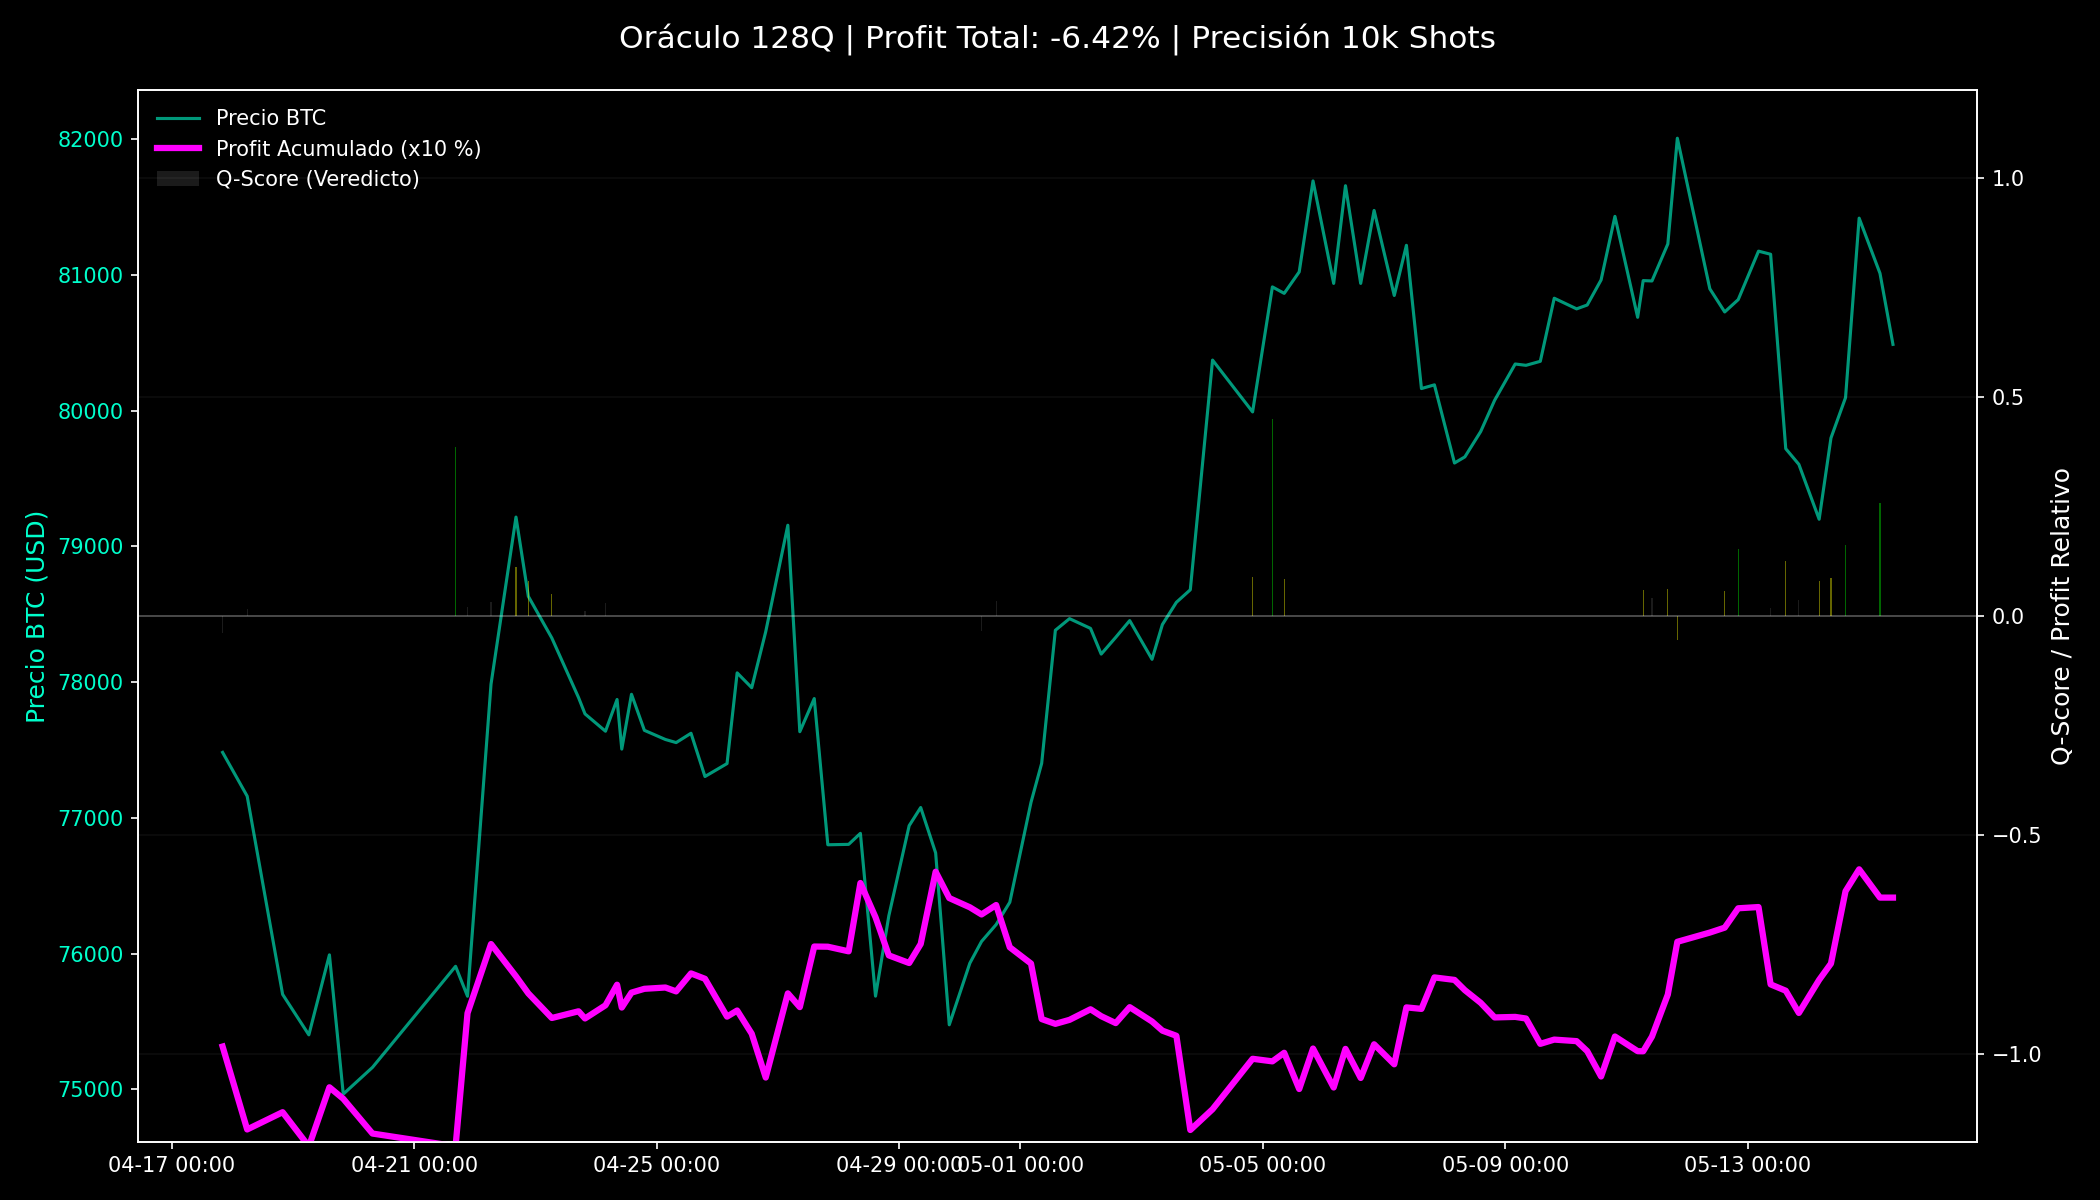
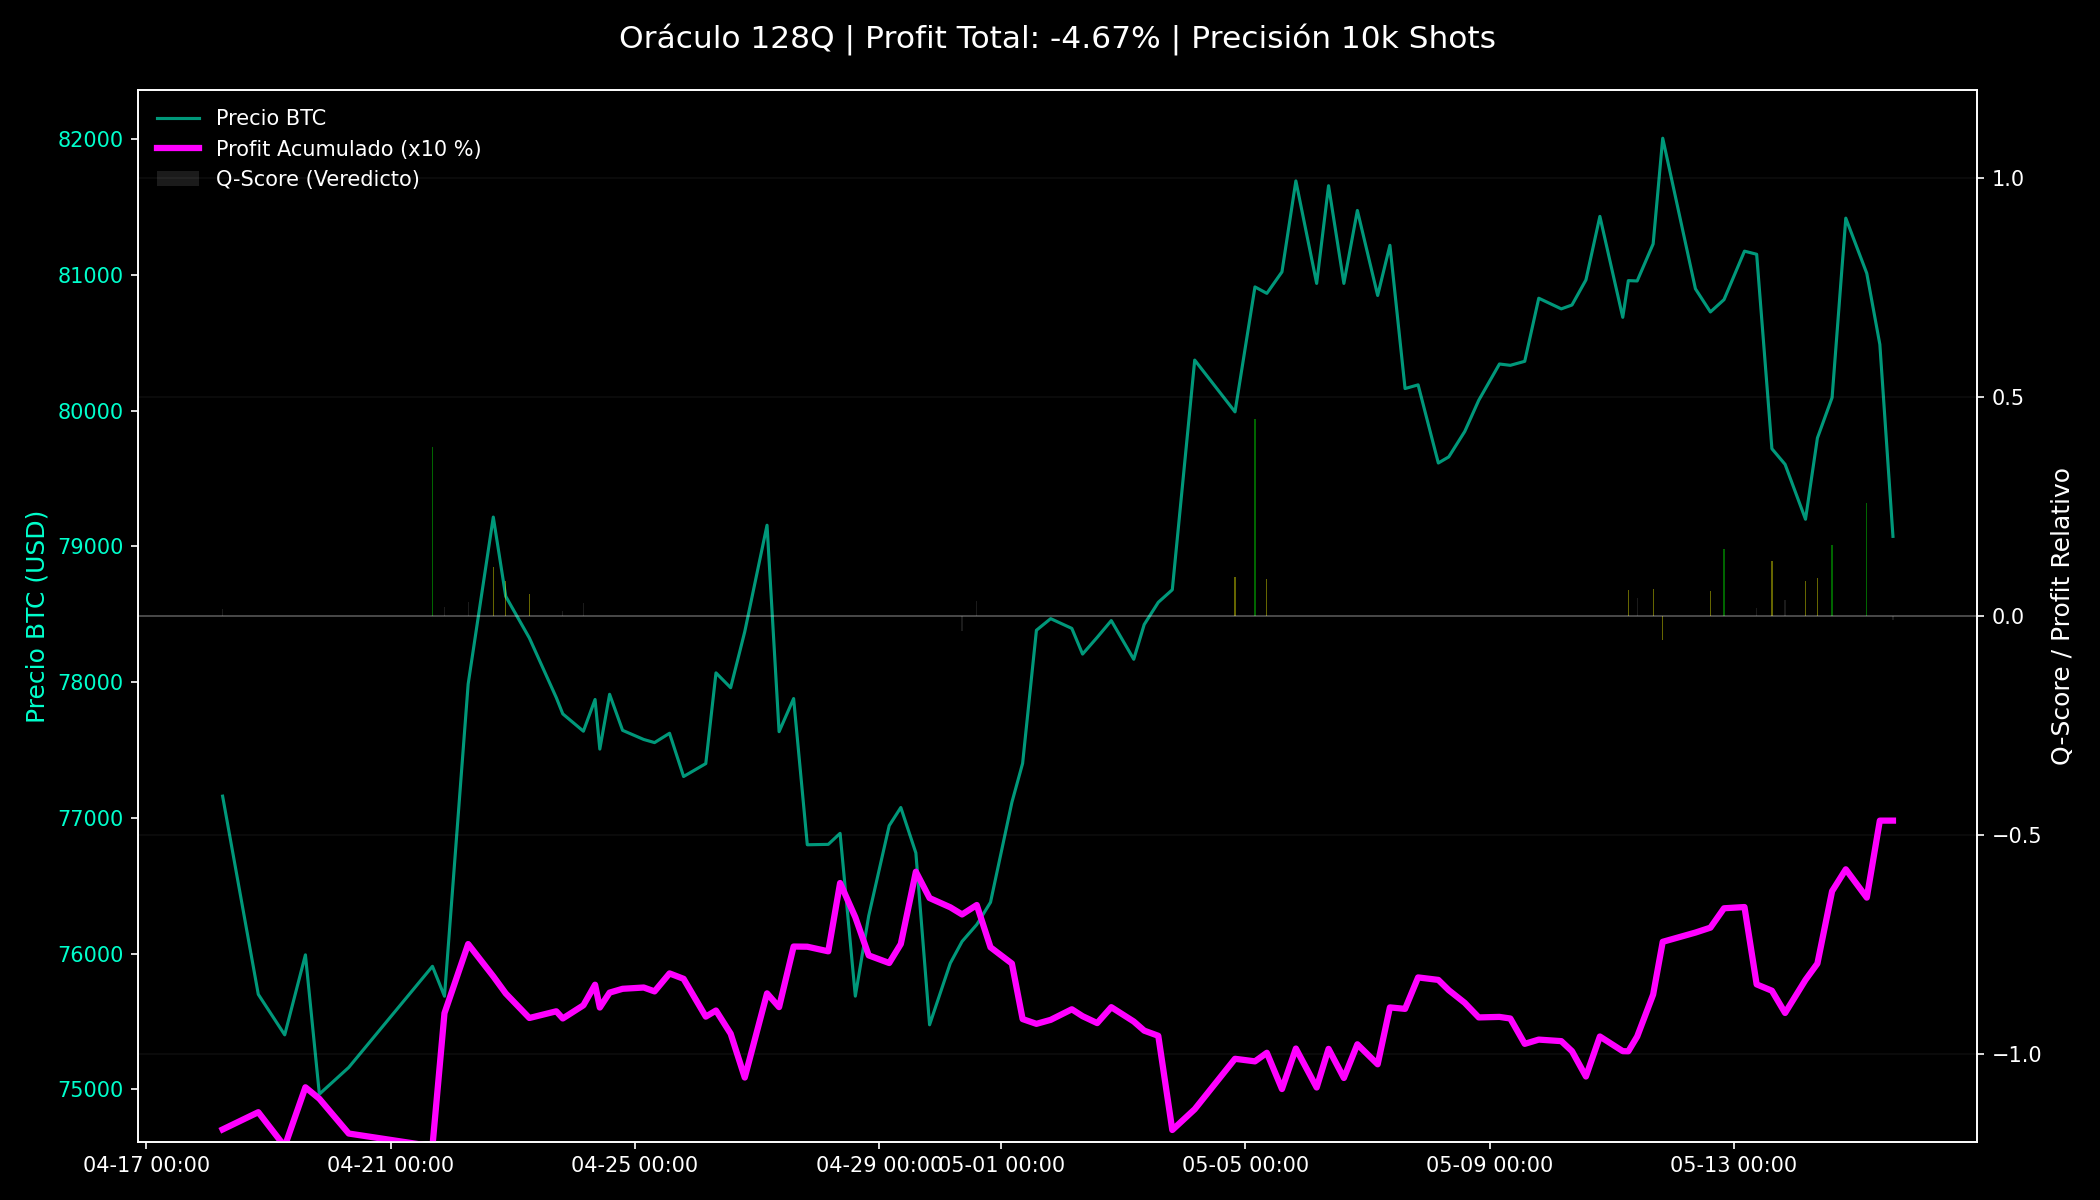
Deploying to gh-pages from @ alconero-hub/oraculo_cuantico@3a28b5a267f0caf5b3e9cca43aea15b72a9e470c 🚀

diff --git a/README.md b/README.md
@@ -1,9 +1,9 @@
 # 🌌 Oráculo Cuántico 128Q
-![Señal](https://img.shields.io/badge/ORÁCULO-💤%20LATERAL-lightgrey?style=for-the-badge)
-* **Precio BTC:** `$80,488.18` | **Q-Score:** `+0.0000`
-* **Hardware:** `Standby (<0.15%)` | **Shots:** `5000`
-* **Volatilidad:** `0.1411%` | **Adaptativo:** `True`
-* **Sync:** `2026-05-15 09:22:23 UTC`
+![Señal](https://img.shields.io/badge/ORÁCULO-🟡%20ESPERA-yellow?style=for-the-badge)
+* **Precio BTC:** `$79,073.90` | **Q-Score:** `-0.0079`
+* **Hardware:** `ibm_kingston` | **Shots:** `5000`
+* **Volatilidad:** `0.1550%` | **Adaptativo:** `True`
+* **Sync:** `2026-05-15 14:31:41 UTC`
 
 ---
 ![Gráfica](./rendimiento_cuantico.png)